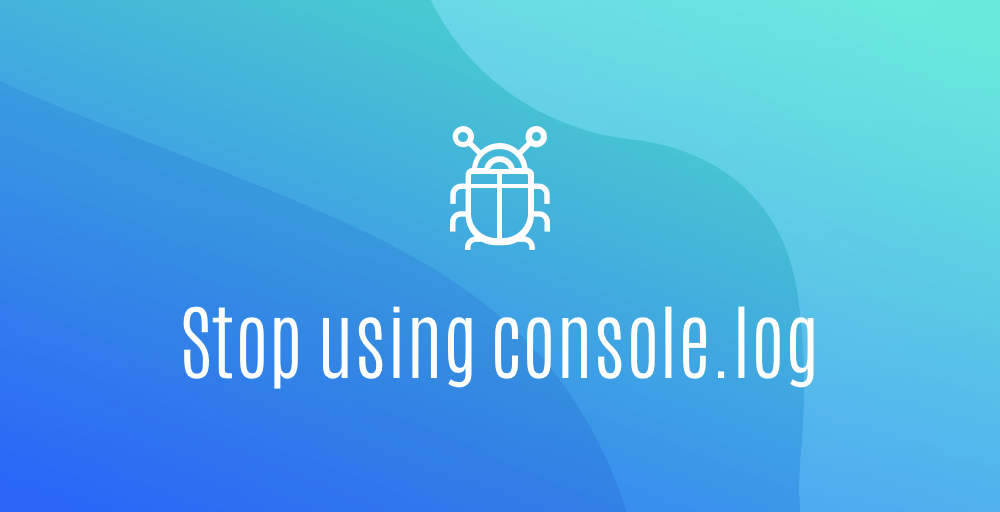
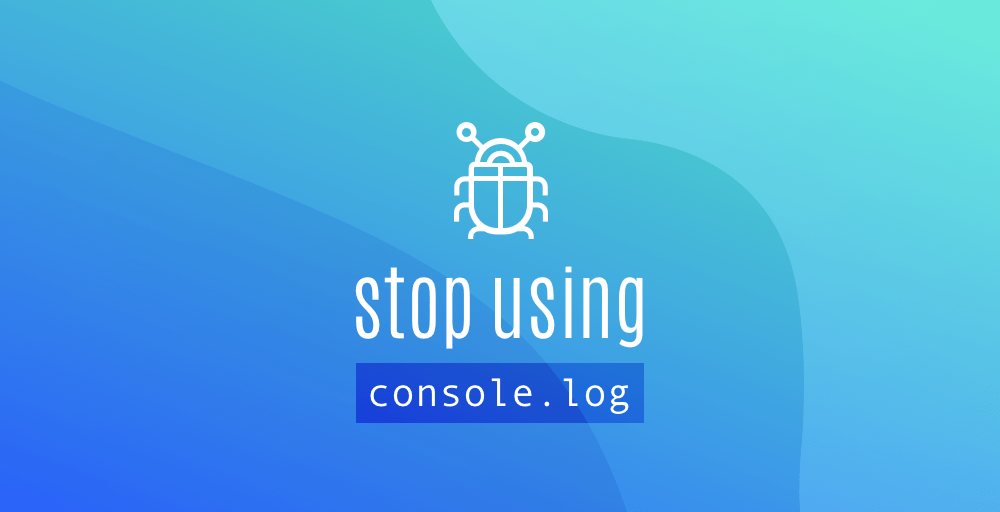
updating debugger social image

Changed region(s): [[0.186, 0.5312, 0.837, 0.8438], [0.434, 0.2188, 0.558, 0.5]]

diff --git a/src/pages/debugger/components/_Main.js b/src/pages/debugger/components/_Main.js
@@ -43,7 +43,7 @@ const Main = ({ currentPageNum, tutorial, homework }) => {
           name="twitter:description"
           content="Still using console.log for debugging JavaScript? There is a better way! Learn how to use Firefox Debugger to debug and fix your code."
         />
-        <meta name="twitter:image" content="https://i.imgur.com/7JPHHiM.png" />
+        <meta name="twitter:image" content="https://i.imgur.com/xyfugPF.png" />
       </Helmet>
 
       <Hero breadcrumb>
